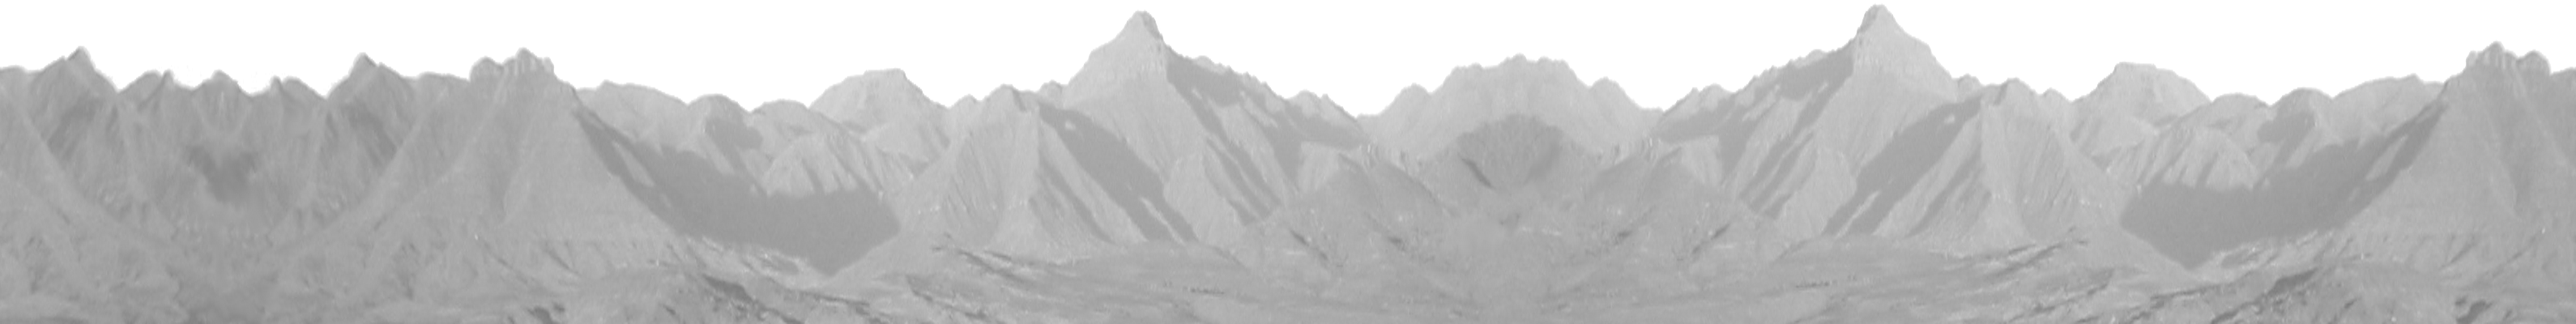
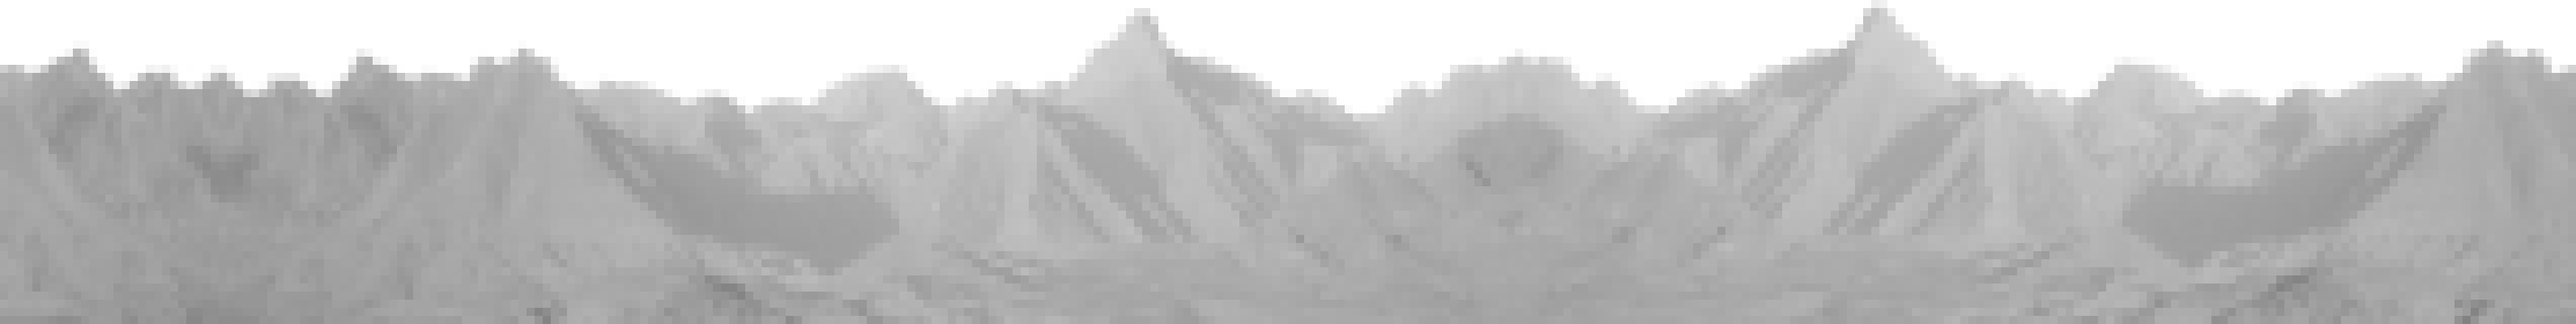
Soo creepy now :) And ugly!

diff --git a/src/play.py b/src/play.py
@@ -62,10 +62,11 @@ class Scene:
     
     def __init__(self, screen, dim, images):
         
-        self.width  = 5000
+        self.width  = 10000
         
         self.screen = screen
         self.images = images
+        self.speeds = [math.pow(5, i) for i in reversed(xrange(0, len(self.images)))]
         self.dim = dim
         
         self.border = dim[0]/2
@@ -81,18 +82,17 @@ class Scene:
         
     def update(self, image, character, zpos=None):
         
-        screen_w, screen_h = self.dim
-        speeds = [math.pow(5, i) for i in reversed(xrange(0, len(self.images)))]
-        
-        print speeds
+        screen_w, screen_h = self.dim        
         
         if not zpos:                    # Default to top-level
             zpos = len(self.images)-1
         
+        offsets = [(0,0), (0,0), (0,100), (0,0), (0,0), (0,-100)]
+        self.speeds = [10000, 1000, 100, 10 , 1, 0.5, 0.13]
         for c, img in enumerate(self.images):
         
             w, h  = img.get_size()            
-            x_offset = self.camera/speeds[c]            
+            x_offset = self.camera/self.speeds[c]            
                         
             rect_offset = (x_offset % w)
             rect_w      = min([(w - (x_offset % w)), screen_w])
@@ -103,11 +103,11 @@ class Scene:
             
             self.screen.blit(
                 img.subsurface(rect_offset, 0, rect_w, rect_h),
-                (0, screen_h-h)
+                (0, screen_h-h-offsets[c][1])   
             )
             self.screen.blit(
                 img.subsurface(0, 0, screen_w-rect_w, rect_h),
-                (rect_w, screen_h-h)
+                (rect_w, screen_h-h-offsets[c][1])
             )            
 
 class Character:
@@ -117,6 +117,7 @@ class Character:
         self.state      = states.STANDING
         self.direction  = dirs.E
         
+        self.amplifier      = 1.0
         self.velocity_x     = 18
         self.velocity_y     = 0
         self.jump_height    = 0
@@ -178,7 +179,7 @@ def draw(screen, dim, image):
 
 def main():
     
-    screen_dim = screen_w, screen_h = (1280, 768)
+    screen_dim = screen_w, screen_h = (1024, 768)
     
     running     = True
     fullscreen  = False
@@ -188,25 +189,24 @@ def main():
     pygame.mouse.set_visible(False)
     
     back = [
-        pygame.transform.scale(pygame.image.load('images/sky.png'), screen_dim),
-        pygame.image.load('images/mountains.png'),
-        pygame.image.load('images/trees.png'),
-        pygame.image.load('images/ground.png'),
+        pygame.transform.scale(pygame.image.load('images/bw_sky.png'), screen_dim),
+        pygame.image.load('images/bw_mountains.png'),
+        pygame.image.load('images/bw_trees.png'),
+        pygame.image.load('images/bw_tree.png'),
+        pygame.image.load('images/bw_ground.png'),
+        pygame.image.load('images/bw_tree.png'),
     ]
     s = Scene(screen, screen_dim, back)
     
-    ground = pygame.image.load('images/ground.png')
-    
-    
     sprites = Sprites()
-    sprites.load('sprites/sonic.png')
+    sprites.load('sprites/bw_sonic.png')
     
     images = sprites.current()
     ticks = 60
     #ticks = 20
     
     w = World()
-    w.ground = screen_h - back[3].get_size()[1]
+    w.ground = screen_h - 110
     
     c = Character()
     c.velocity_x = 0.0
@@ -246,15 +246,12 @@ def main():
                 pressed[event.key] = 1
         
         # Filter it
-        if c.state != states.IN_AIR and pressed[pygame.K_UP] and not pressed[pygame.K_DOWN]:
+        if c.state != states.IN_AIR and pressed[pygame.K_d]:
             c.velocity_y = -100.0
             
         if pressed[pygame.K_DOWN] and not pressed[pygame.K_UP]:
             c.direction = dirs.S
-            
-        if not pressed[pygame.K_DOWN] and not pressed[pygame.K_UP]:
-            pass
-                       
+        
         if pressed[pygame.K_LEFT] and not pressed[pygame.K_RIGHT]:
             c.direction     = dirs.W
             c.velocity_x    = -20.0
@@ -265,19 +262,25 @@ def main():
             
         if not pressed[pygame.K_RIGHT] and not pressed[pygame.K_LEFT]:
             c.velocity_x = 0.0
+            
+        if pressed[pygame.K_a]:
+            c.amplifier = 2.0
+        else:
+            c.amplifier = 1.0
+                
                 
         # Move sonic or move the scene?        
         if (c.direction == dirs.W and s.camera == 0) or \
             (c.direction == dirs.E and s.camera >= s.width-screen_w):
-            c.x += c.velocity_x
+            c.x += c.velocity_x * c.amplifier
         elif c.direction == dirs.E and c.x+44 < (screen_w/2):
-            c.x += c.velocity_x
+            c.x += c.velocity_x * c.amplifier
         elif c.direction == dirs.W and c.x+44 > (screen_w/2):
-            c.x += c.velocity_x
+            c.x += c.velocity_x * c.amplifier
         else:
-            s.move(c.velocity_x)
+            s.move(c.velocity_x * c.amplifier)
         
-        # Keep sonic within the screen
+        # Keep the Character within the screen
         if c.x <= 0:
             c.x = 0
         elif c.x >= screen_w-87:
